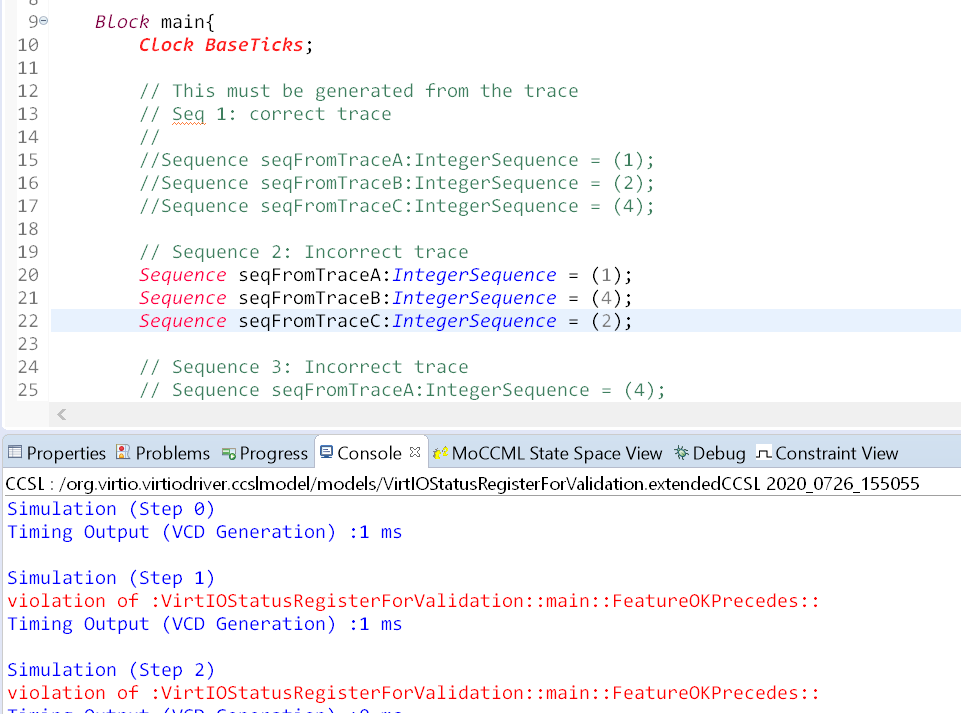
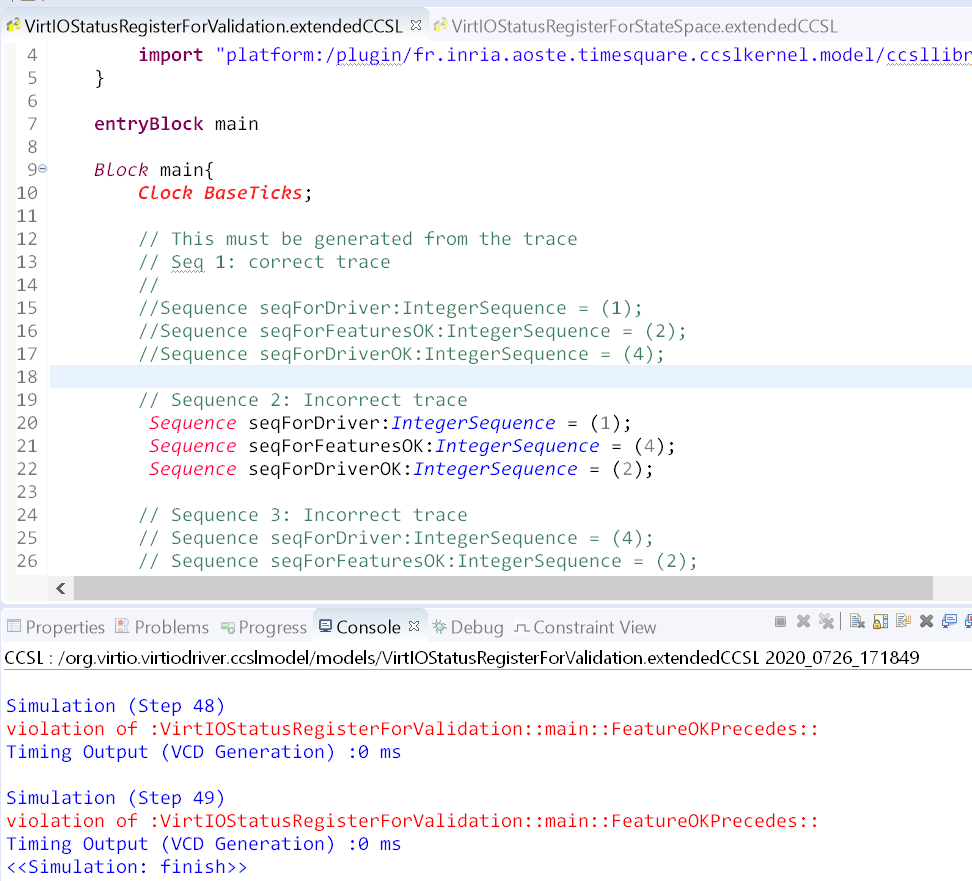
Fix typos

Changed region(s): [[0.0, 0.0, 1.0, 1.0], [0.0937, 0.1232, 0.6868, 0.3081], [0.5619, 0.1232, 0.5931, 0.1541]]

diff --git a/README.md b/README.md
@@ -47,15 +47,15 @@ Select these traces and paste them into a textual editor to use latter. You can 
 ## Analyze the traces
 We use an Eclipse workbench that contains TimeSquare to validate the generated traces but also to analyze the CCSL specification of the VirtIO specification. Please follow the steps at http://timesquare.inria.fr/download/ to get an Eclipse with TimeSquare installed. 
 
-The first step is to import the project `plugins/org.virtio.virtiodriver.ccslmodel` into the workbench. At left, you can see that the project contains two CCSL specifications. At right, you can see the textual editor of the CCSL specification. This is shown in the following figure. 
+The first step is to import the project `plugins/org.virtio.virtiodriver.ccslmodel` into the workbench. At left, you can see that the project contains two CCSL specifications. At right, you can see the textual editor of the CCSL specification. This is shown in the following figure: 
 
 ![workbench](./images/workbench.png)
 
-To validate the generated traces, we have to describe traces in a format that CCSL understands. For the moment, this is manually done. For example, the traces generated above are translated to the following code: 
+To validate the generated traces, we have to describe the traces in a format that CCSL understands them. For the moment, this is manually done. For example, the traces generated before are translated into the following code: 
 
-	Sequence seqFromTraceA:IntegerSequence = (1);
-	Sequence seqFromTraceB:IntegerSequence = (2);
-	Sequence seqFromTraceC:IntegerSequence = (4);
+        Sequence seqForDriver:IntegerSequence = (1);
+        Sequence seqForFeaturesOK:IntegerSequence = (2);
+        Sequence seqForDriverOK:IntegerSequence = (4);
 
 The following picture shows how this is included into the CCSL specification. This corresponds with the sequence declared from line 15 to 17.
 
@@ -69,7 +69,7 @@ To generate the state-space diagram, right-click on `VirtIOStatusRegisterForStat
 
 ![assert](./images/generate-state-space.png)
 
-This generates the file `VirtIOStatusRegisterForStateSpace.dot`that contains the state-space diagram is DOT format. You can use any DOT viewer to display the diagram. For example, you can use https://dreampuf.github.io/GraphvizOnline/ and get something like:
+This generates the file `VirtIOStatusRegisterForStateSpace.dot`that contains the state-space diagram in DOT format. You can use any DOT viewer to display the diagram. For example, you can use https://dreampuf.github.io/GraphvizOnline/ and get something like:
 
 
 ![assert](./images/state-space.png)
